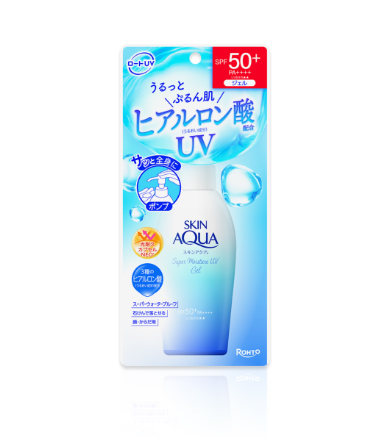
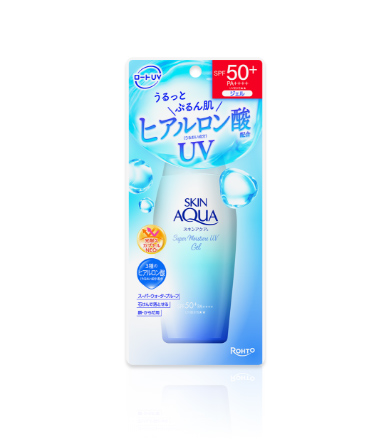
V3.4.2 append beauty shopping products

Changed region(s): [[0.3077, 0.0886, 0.7077, 0.8568], [0.3077, 0.8273, 0.3385, 0.8568]]

diff --git a/assets/app.js b/assets/app.js
@@ -46,22 +46,12 @@ let edits={
   dayOrders:{},
   prepItems:[],
   shopping:[],
+  shoppingSeedVersions:[],
   lastModified:null
 };
 
 const headers={"apikey":SUPABASE_KEY,"Authorization":"Bearer "+SUPABASE_KEY,"Content-Type":"application/json"};
 const cityCoords={Osaka:{lat:34.6937,lon:135.5023,label:"大阪"},Kyoto:{lat:35.0116,lon:135.7681,label:"京都"},Kobe:{lat:34.6901,lon:135.1955,label:"神戶"}};
-
-const RECOMMENDED_SHOPPING_ITEMS=[
-  {id:"shop-rec-elixir",name:"ELIXIR Retino Power Wrinkle Cream ba S 15g",qty:1,unitPrice:6600,person:"自己",done:false,image:"assets/products/elixir.webp"},
-  {id:"shop-rec-biore-athlizm",name:"Biore UV ATHLIZM Protect Mist 70ml",qty:1,unitPrice:1980,person:"自己",done:false,image:"https://japanesetaste.com.au/cdn/shop/files/athlizm_1.jpg?v=1746157315"},
-  {id:"shop-rec-skin-aqua",name:"Skin Aqua Super Moisture UV Gel Pump 140g",qty:1,unitPrice:1375,person:"自己",done:false,image:"assets/products/skin-aqua.jpg"},
-  {id:"shop-rec-minon-mask",name:"MINON Amino Moist 保濕面膜 4片",qty:1,unitPrice:1320,person:"自己",done:false,image:"assets/products/minon.jpg"},
-  {id:"shop-rec-melano-cc",name:"Melano CC Premium Essence 20ml",qty:1,unitPrice:1628,person:"自己",done:false,image:"assets/products/melano-cc.jpg"},
-  {id:"shop-rec-lipopeel",name:"LIPOPEEL 柔煥透亮精萃 30ml",qty:1,unitPrice:2480,person:"自己",done:false,image:"assets/products/lipopeel.png"},
-  {id:"shop-rec-fancl-mco",name:"FANCL Mild Cleansing Oil 120ml",qty:1,unitPrice:1980,person:"自己",done:false,image:"assets/products/fancl-mco.png"}
-];
-
 const weatherCodes={0:["☀","晴朗"],1:["🌤","大致晴朗"],2:["⛅","局部多雲"],3:["☁","陰天"],45:["🌫","有霧"],48:["🌫","霧淞"],51:["🌦","毛毛雨"],53:["🌦","毛毛雨"],55:["🌧","較強毛毛雨"],61:["🌧","小雨"],63:["🌧","中雨"],65:["🌧","大雨"],80:["🌦","陣雨"],81:["🌧","陣雨"],82:["⛈","強陣雨"],95:["⛈","雷雨"],96:["⛈","雷雨冰雹"],99:["⛈","強雷雨冰雹"]};
 
 function esc(v){return String(v??"").replace(/[&<>"']/g,m=>({"&":"&amp;","<":"&lt;",">":"&gt;",'"':"&quot;","'":"&#39;"}[m]))}
@@ -96,6 +86,109 @@ async function uploadImage(file,folder){
 }
 
 
+
+const SHOPPING_SEED_VERSION="beauty-2026-08-07-v1";
+const SHOPPING_SEED=[
+  {
+    id:"seed-beauty-elixir-retinol",
+    name:"ELIXIR 視黃醇（Retino Power Wrinkle Cream ba S 15g）",
+    qty:1,
+    unitPrice:6600,
+    person:"自己",
+    done:false,
+    image:"./assets/products/elixir-retinol.webp",
+    referencePrice:true
+  },
+  {
+    id:"seed-beauty-biore-athlizm",
+    name:"Biore UV ATHLIZM 身體防曬 70g",
+    qty:1,
+    unitPrice:2000,
+    person:"自己",
+    done:false,
+    image:"./assets/products/biore-athlizm.jpg",
+    referencePrice:true
+  },
+  {
+    id:"seed-beauty-skin-aqua-gel",
+    name:"Skin Aqua UV Super Moisture Gel 110g",
+    qty:1,
+    unitPrice:1155,
+    person:"自己",
+    done:false,
+    image:"./assets/products/skin-aqua.jpg",
+    referencePrice:true
+  },
+  {
+    id:"seed-beauty-minon-mask",
+    name:"MINON ぷるぷるしっとり肌マスク 4片",
+    qty:1,
+    unitPrice:1320,
+    person:"自己",
+    done:false,
+    image:"./assets/products/minon-mask.png",
+    referencePrice:true
+  },
+  {
+    id:"seed-beauty-melano-cc-premium",
+    name:"Melano CC Premium 美白精華 20mL",
+    qty:1,
+    unitPrice:1359,
+    person:"自己",
+    done:false,
+    image:"./assets/products/melano-cc-premium.jpg",
+    referencePrice:true
+  },
+  {
+    id:"seed-beauty-lipopeel",
+    name:"LIPOPEEL 柔煥透亮精萃 30mL",
+    qty:1,
+    unitPrice:2480,
+    person:"自己",
+    done:false,
+    image:"./assets/products/lipopeel.webp",
+    referencePrice:true
+  },
+  {
+    id:"seed-beauty-fancl-mco",
+    name:"FANCL MCO 奈米淨化卸妝油 120mL",
+    qty:1,
+    unitPrice:1980,
+    person:"自己",
+    done:false,
+    image:"./assets/products/fancl-mco.webp",
+    referencePrice:true
+  }
+];
+
+function normalizedShoppingName(value){
+  return String(value||"").toLowerCase().replace(/\s+/g,"").replace(/[（）()・／/]/g,"");
+}
+
+function appendShoppingSeed(){
+  edits.shopping=Array.isArray(edits.shopping)?edits.shopping:[];
+  edits.shoppingSeedVersions=Array.isArray(edits.shoppingSeedVersions)?edits.shoppingSeedVersions:[];
+
+  if(edits.shoppingSeedVersions.includes(SHOPPING_SEED_VERSION)){
+    return false;
+  }
+
+  const existingIds=new Set(edits.shopping.map(item=>item.id).filter(Boolean));
+  const existingNames=new Set(edits.shopping.map(item=>normalizedShoppingName(item.name)));
+
+  for(const item of SHOPPING_SEED){
+    const sameName=existingNames.has(normalizedShoppingName(item.name));
+    if(!existingIds.has(item.id) && !sameName){
+      edits.shopping.push({...item});
+      existingIds.add(item.id);
+      existingNames.add(normalizedShoppingName(item.name));
+    }
+  }
+
+  edits.shoppingSeedVersions.push(SHOPPING_SEED_VERSION);
+  return true;
+}
+
 function migrateEdits(raw){
   const previous=raw&&typeof raw==="object"?raw:{};
   try{
@@ -127,6 +220,7 @@ function migrateEdits(raw){
       {id:"prep-cash",name:"日圓現金",done:false}
     ],
     shopping:[],
+    shoppingSeedVersions:[],
     lastModified:null
   };
   const next={...defaults,...previous};
@@ -143,13 +237,7 @@ function migrateEdits(raw){
   next.addedItems=Array.isArray(previous.addedItems)?previous.addedItems:[];
   next.prepItems=Array.isArray(previous.prepItems)&&previous.prepItems.length?previous.prepItems:defaults.prepItems;
   next.shopping=Array.isArray(previous.shopping)?previous.shopping:[];
-  const normalizedNames=new Set(next.shopping.map(x=>String(x.name||"").toLowerCase().replace(/\s+/g,"")));
-  RECOMMENDED_SHOPPING_ITEMS.forEach(item=>{
-    const key=String(item.name).toLowerCase().replace(/\s+/g,"");
-    const idExists=next.shopping.some(x=>x.id===item.id);
-    const fuzzyExists=["elixir","athlizm","skinaqua","minon","melanocc","lipopeel","fancl"].some(token=>key.includes(token)&&[...normalizedNames].some(n=>n.includes(token)));
-    if(!idExists&&!normalizedNames.has(key)&&!fuzzyExists){next.shopping.push({...item});normalizedNames.add(key)}
-  });
+  next.shoppingSeedVersions=Array.isArray(previous.shoppingSeedVersions)?previous.shoppingSeedVersions:[];
   next.version=5;
   return next;
 }
@@ -498,7 +586,7 @@ function renderShopping(){
   $("#personSummary").innerHTML=Object.entries(people).map(([p,v])=>`<div class="person-chip"><span>${esc(p)}</span><b>¥${v.toLocaleString()}</b></div>`).join("");
   $("#shoppingList").innerHTML=edits.shopping.map(x=>`<article class="shopping-card ${x.done?"done":""}">
     ${x.image?`<img src="${x.image}" alt="" loading="lazy">`:'<div class="photo-placeholder">無照片</div>'}
-    <div class="shopping-body"><h4>${esc(x.name)}</h4><p>${Number(x.qty)||0} × ¥${Number(x.unitPrice||0).toLocaleString()}＝¥${shoppingAmount(x).toLocaleString()}</p><p>委託人：${esc(x.person||"自己")}</p></div>
+    <div class="shopping-body"><h4>${esc(x.name)}</h4><p>${x.referencePrice?"日本參考價 ":""}¥${Number(x.unitPrice||0).toLocaleString()}${Number(x.qty||0)!==1?` × ${Number(x.qty)||0}＝¥${shoppingAmount(x).toLocaleString()}`:""}</p><p>委託人：${esc(x.person||"自己")}</p></div>
     <div class="tool-actions"><button onclick="toggleShopping('${x.id}')">✓</button><button onclick="editShopping('${x.id}')">編輯</button><button onclick="shoppingPhoto('${x.id}')">照片</button><button onclick="deleteShopping('${x.id}')">刪除</button></div>
   </article>`).join("")||'<div class="today-empty">尚無必買／代購項目。</div>';
 }
@@ -547,6 +635,11 @@ async function init(){
     trip=applyDayOverrides(trip,dayOverrides);
     loadLocalEdits();
     if(tripId&&activeToken()){try{await fetchCloud();setSync("雲端已連線")}catch(e){console.error(e);setSync("雲端讀取失敗，顯示本機資料")}}
+    const shoppingSeedAdded=appendShoppingSeed();
+    if(shoppingSeedAdded){
+      persistLocal();
+      if(tripId&&editToken&&!readonly)await saveCloud();
+    }
     $("#boot").classList.add("hidden");$("#app").classList.remove("hidden");renderAll();loadAllWeather();
     if(tripId&&activeToken())setInterval(async()=>{if(document.hidden)return;try{const before=JSON.stringify(edits);await fetchCloud();if(JSON.stringify(edits)!==before){renderAll();setSync("已收到其他裝置更新")}}catch{}},7000);
   }catch(e){$("#boot").innerHTML=`<div style="padding:24px;text-align:center"><b>資料載入失敗</b><p>${esc(e.message)}</p></div>`}

diff --git a/service-worker.js b/service-worker.js
@@ -1,4 +1,4 @@
-const CACHE_NAME = 'travel-companion-v3-4-2-shopping-photos';
+const CACHE_NAME = 'travel-companion-v3-4-2-shopping1';
 const APP_SHELL = [
   './',
   './index.html',
@@ -14,12 +14,13 @@ const APP_SHELL = [
   './public/data/luggage.json',
   './public/data/tickets.json',
   './public/data/wishlist.json',
-  './assets/products/elixir.webp',
+  './assets/products/elixir-retinol.webp',
+  './assets/products/biore-athlizm.jpg',
   './assets/products/skin-aqua.jpg',
-  './assets/products/minon.jpg',
-  './assets/products/melano-cc.jpg',
-  './assets/products/lipopeel.png',
-  './assets/products/fancl-mco.png'
+  './assets/products/minon-mask.png',
+  './assets/products/melano-cc-premium.jpg',
+  './assets/products/lipopeel.webp',
+  './assets/products/fancl-mco.webp'
 ];
 
 self.addEventListener('install', event => {

diff --git a/index.html b/index.html
@@ -17,7 +17,7 @@
     <header class="hero">
       <div class="hero-shade"></div>
       <div class="hero-inner">
-        <div class="eyebrow">TRAVEL COMPANION V3.4.1</div>
+        <div class="eyebrow">TRAVEL COMPANION V3.4.2</div>
         <h1>OSAKA 2026<br><span>Janice’s Journey</span></h1>
         <p id="tripDates">2026.08.12—08.17｜6天5夜</p>
 
@@ -211,6 +211,6 @@
 
   <script defer src="./assets/smart-route.js?v=341-day6planb1"></script>
   <script defer src="./assets/trip-health.js?v=341-day6planb1"></script>
-  <script defer src="./assets/app.js?v=341-day6planb1"></script>
+  <script defer src="./assets/app.js?v=342-shopping1"></script>
 </body>
 </html>
